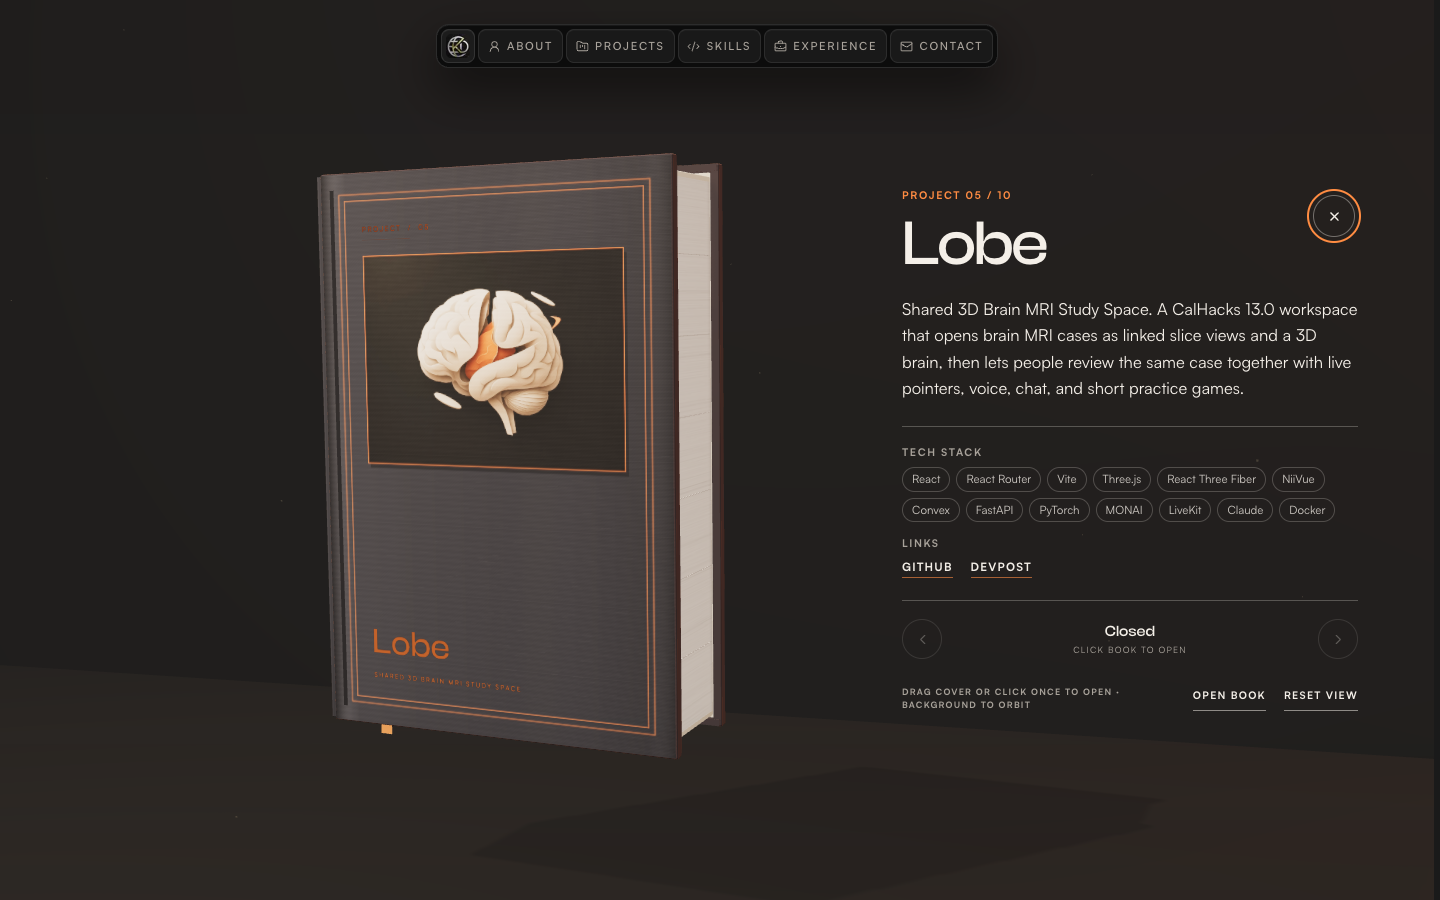
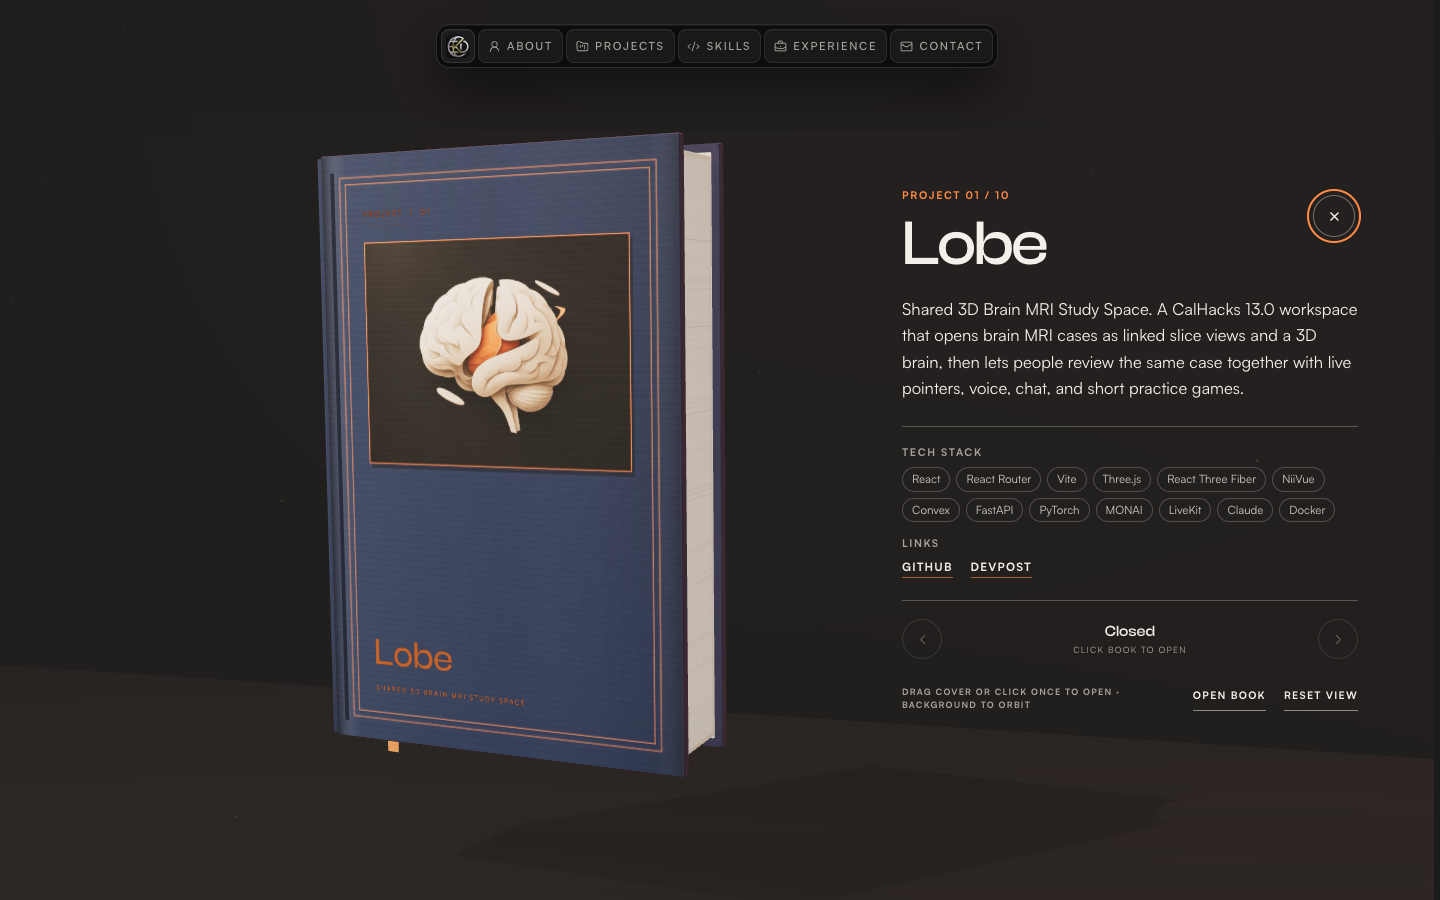
feat: place Lobe first on the project shelf
It is the latest project, so the shelf should open on it.

Changed region(s): [[0.2188, 0.1244, 0.5, 0.8711]]

diff --git a/src/data/portfolio.ts b/src/data/portfolio.ts
@@ -27,6 +27,33 @@ export const navLinks = [
 
 export const projects = [
   {
+    title: "Lobe",
+    subtitle: "Shared 3D Brain MRI Study Space",
+    desc: "A CalHacks 13.0 workspace that opens brain MRI cases as linked slice views and a 3D brain, then lets people review the same case together with live pointers, voice, chat, and short practice games.",
+    tags: [
+      "React",
+      "React Router",
+      "Vite",
+      "Three.js",
+      "React Three Fiber",
+      "NiiVue",
+      "Convex",
+      "FastAPI",
+      "PyTorch",
+      "MONAI",
+      "LiveKit",
+      "Claude",
+      "Docker",
+    ],
+    color: "#f97316",
+    image: "/projects/lobe.jpg",
+    liveHref: "",
+    devpostHref: "https://devpost.com/software/lobe",
+    sourceHref: "https://github.com/DuongAnh1201/Lobe",
+    award: "",
+    stars: "",
+  },
+  {
     title: "Material Enhancement Assistant",
     subtitle: "AI-Powered Course Material Workspace",
     desc: "An AI-powered workspace that helps professors upload, analyze, and enhance course materials with retrieval-assisted Gemini workflows while keeping instructors in control of every change.",
@@ -104,33 +131,6 @@ export const projects = [
     devpostHref: "https://devpost.com/software/911-operator-assistant",
     sourceHref: "https://github.com/Ben2104/911-Operator-Assistant",
     award: "Best Overall Award — Marina Hacks 5.0 (out of 40 projects)",
-    stars: "",
-  },
-  {
-    title: "Lobe",
-    subtitle: "Shared 3D Brain MRI Study Space",
-    desc: "A CalHacks 13.0 workspace that opens brain MRI cases as linked slice views and a 3D brain, then lets people review the same case together with live pointers, voice, chat, and short practice games.",
-    tags: [
-      "React",
-      "React Router",
-      "Vite",
-      "Three.js",
-      "React Three Fiber",
-      "NiiVue",
-      "Convex",
-      "FastAPI",
-      "PyTorch",
-      "MONAI",
-      "LiveKit",
-      "Claude",
-      "Docker",
-    ],
-    color: "#f97316",
-    image: "/projects/lobe.jpg",
-    liveHref: "",
-    devpostHref: "https://devpost.com/software/lobe",
-    sourceHref: "https://github.com/DuongAnh1201/Lobe",
-    award: "",
     stars: "",
   },
   {

diff --git a/docs/pr/add-lobe/qa-results.md b/docs/pr/add-lobe/qa-results.md
@@ -2,6 +2,8 @@
 
 `npm run lint`, `npx tsc --noEmit --incremental false`, `npm run build`, and `node --experimental-strip-types scripts/check-project-shelf.mjs` passed.
 
+Lobe is the first project, so the shelf opens on it as 01 / 10.
+
 Screenshots are from `chrome-devtools-axi` against `next start` of that build, at 1440×900 and 390×844. `next dev` did not hydrate here: the dev HMR upgrade hung, so the intro stayed at opacity 0.
 
 | View | File |
